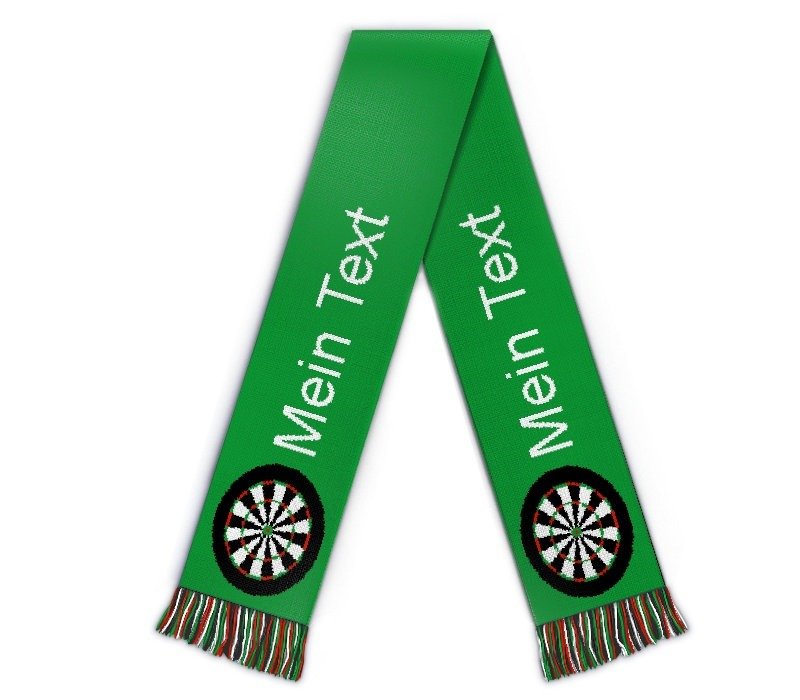
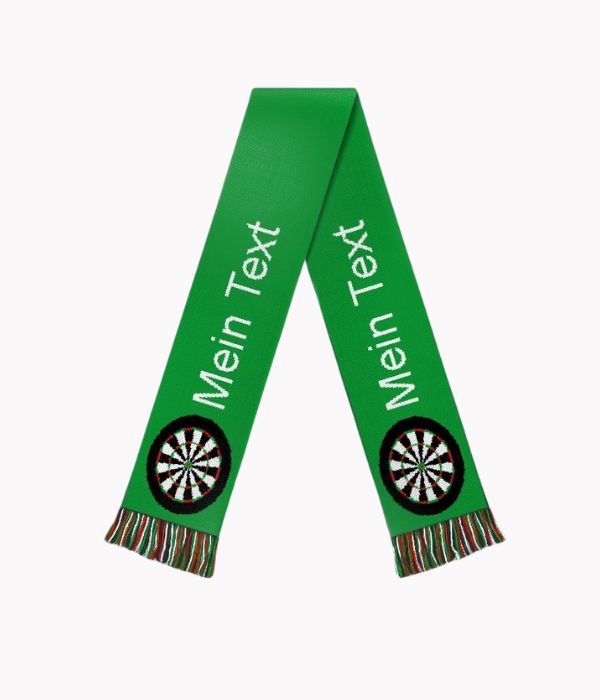
added images

Changed region(s): [[0.18, 0.03, 0.87, 0.99]]

diff --git a/src/api/products.js b/src/api/products.js
@@ -7,7 +7,7 @@ export default [
         "id": 0,
         "name": "Fan Scarf Marathon",
         "slug": "1a",
-        "pictures": ["scarves/fan-scarf-marathon1.jpg", "scarves/fan-scarf-marathon1.jpg"],
+        "pictures": ["scarves/fan-scarf-marathon.jpg", "scarves/fan-scarf-marathon.jpg"],
         "stock": 32,
         "price": 3500,
         // "discount": 1000,
@@ -21,9 +21,9 @@ export default [
     },
     {
         "id": 1,
-        "name": "Fan Scarf Marathon",
+        "name": "Football Scarf Blue White",
         "slug": "2b",
-        "pictures": ["scarves/fan-scarf-marathon.jpg", "scarves/fan-scarf-marathon.jpg"],
+        "pictures": ["scarves/football-scarf-blue-white.jpg", "scarves/football-scarf-blue-white.jpg"],
         "stock": 32,
         "price": 3500,
         "discount": 1000,
@@ -37,9 +37,9 @@ export default [
     },
     {
         "id": 2,
-        "name": "Fan Scarf Marathon",
+        "name": "Football Scarf Darts",
         "slug": "3c",
-        "pictures": ["scarves/fan-scarf-marathon1.jpg", "scarves/fan-scarf-marathon1.jpg"],
+        "pictures": ["scarves/football-scarf-darts.jpg", "scarves/football-scarf-darts.jpg"],
         "stock": 32,
         "price": 3500,
         "discount": 1000,
@@ -53,9 +53,9 @@ export default [
     },
     {
         "id": 3,
-        "name": "Fan Scarf Marathon",
+        "name": "Football Scarf Leather",
         "slug": "4d",
-        "pictures": ["scarves/fan-scarf-marathon1.jpg", "scarves/fan-scarf-marathon1.jpg"],
+        "pictures": ["scarves/football-scarf-leather.jpg", "scarves/football-scarf-leather.jpg"],
         "stock": 32,
         "price": 3500,
         "discount": 1000,
@@ -69,9 +69,9 @@ export default [
     },
     {
         "id": 4,
-        "name": "Fan Scarf Marathon",
+        "name": "Football Scarf Europe",
         "slug": "5e",
-        "pictures": ["scarves/fan-scarf-marathon1.jpg", "scarves/fan-scarf-marathon1.jpg"],
+        "pictures": ["scarves/football-scarf-europe.jpg", "scarves/football-scarf-europe.jpg"],
         "stock": 32,
         "price": 3500,
         "discount": 1000,
@@ -85,9 +85,9 @@ export default [
     },
     {
         "id": 5,
-        "name": "Knitted Sports Scraf",
+        "name": "Football Scarf Christmas",
         "slug": "6f",
-        "pictures": ["scarves/fan-scarf-marathon.jpg", "scarves/fan-scarf-marathon.jpg"],
+        "pictures": ["scarves/football-scarf-christmas.jpg", "scarves/football-scarf-christmas.jpg"],
         "stock": 32,
         "price": 3500,
         "discount": 1000,
@@ -102,8 +102,8 @@ export default [
     {
         "id": 6,
         "slug": "7g",
-        "name": "Knitted Sports Scraf",
-        "pictures": ["scarves/fan-scarf-marathon.jpg", "scarves/fan-scarf-marathon.jpg"],
+        "name": "Football Bar Scarf",
+        "pictures": ["scarves/football-scarf-white-black.jpg", "scarves/football-scarf-white-black.jpg"],
         "stock": 32,
         "price": 3500,
         "discount": 1000,
@@ -117,9 +117,9 @@ export default [
     },
     {
         "id": 7,
-        "name": "Knitted Sports Scraf",
+        "name": "Football Bar Scarf",
         "slug": "8h",
-        "pictures": ["scarves/fan-scarf-marathon.jpg", "scarves/fan-scarf-marathon.jpg"],
+        "pictures": ["scarves/football-scarf-blue-yellow.jpg", "scarves/football-scarf-blue-yellow.jpg"],
         "stock": 32,
         "price": 3500,
         "discount": 1000,

diff --git a/public/assets/css/theme.min.css b/public/assets/css/theme.min.css
@@ -246,7 +246,7 @@ Tab
 
 .owl-carousel .product-card { margin: 15px; } 
 .owl-carousel .product-card:hover { box-shadow: 0 .125rem .25rem rgba(0, 0, 0, .075) !important; }
-.product-card { border: none; padding-bottom: 20px; overflow: hidden; margin-bottom: 40px;}
+.product-card { border: none; padding-bottom: 0px; overflow: hidden; margin-bottom: 40px;}
 .product-card:hover { box-shadow: 0 10px 55px 5px rgba(137, 173, 255, .15) !important; }
 .product-card .btn-wishlist { position: absolute; top: .75rem; right: .75rem; z-index: 5; width: 2rem; height: 2rem; line-height: 2rem; padding: 0 !important; border: 0; border-radius: 50%; background-color: #ffffff; color: #fe4c1c; text-align: center; box-shadow: 0 10px 55px 5px rgba(137, 173, 255, .15) !important; }
 .product-card .btn-wishlist i { animation: heartBeat 1.3s infinite running; }

diff --git a/src/Components/ProductCard.js b/src/Components/ProductCard.js
@@ -94,7 +94,7 @@ function ProductCard({ id, imgBackSrc, imgFrontSrc, title, price, actualPrice, r
 
   return (
     <>
-      <div className="card product-card border">
+      <div className="card product-card ">
         <Link className="card-img-hover d-block" to="/product-left-image" onClick={() => {
           dispatch(setSelectedProduct(id));
         }}>
